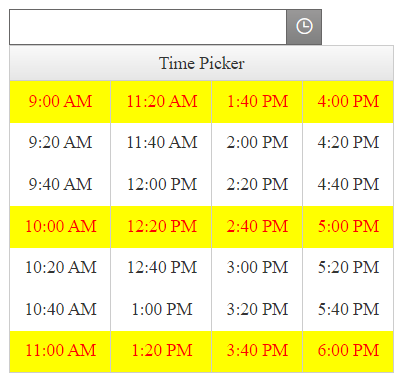
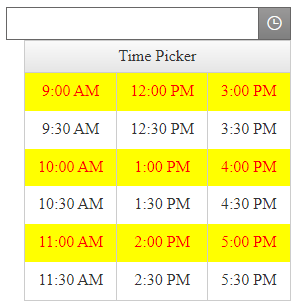
kb(timepicker): fix sample

diff --git a/knowledge-base/timepicker-highlight-rounded-hours.md b/knowledge-base/timepicker-highlight-rounded-hours.md
@@ -68,14 +68,14 @@ Here is a sample usage:
 ````ASPX
 <style>
     .RadCalendarPopup .RadCalendarTimeView tr:nth-of-type(2),
-    .RadCalendarPopup .RadCalendarTimeView tr:nth-of-type(5),
-    .RadCalendarPopup .RadCalendarTimeView tr:nth-of-type(8) {
+    .RadCalendarPopup .RadCalendarTimeView tr:nth-of-type(4),
+    .RadCalendarPopup .RadCalendarTimeView tr:nth-of-type(6) {
         background-color: yellow;
         color: red;
     }
 </style>
 <telerik:RadTimePicker RenderMode="Lightweight" ID="RadTimePicker1" Width="285px" runat="server" Visible="true">
-    <TimeView Interval="20" Columns="4" RenderDirection="Vertical" StartTime="9:00" EndTime="18:15">
+    <TimeView Interval="30" Columns="3" RenderDirection="Vertical" StartTime="9:00" EndTime="18:00">
     </TimeView>
 </telerik:RadTimePicker>
 ````
